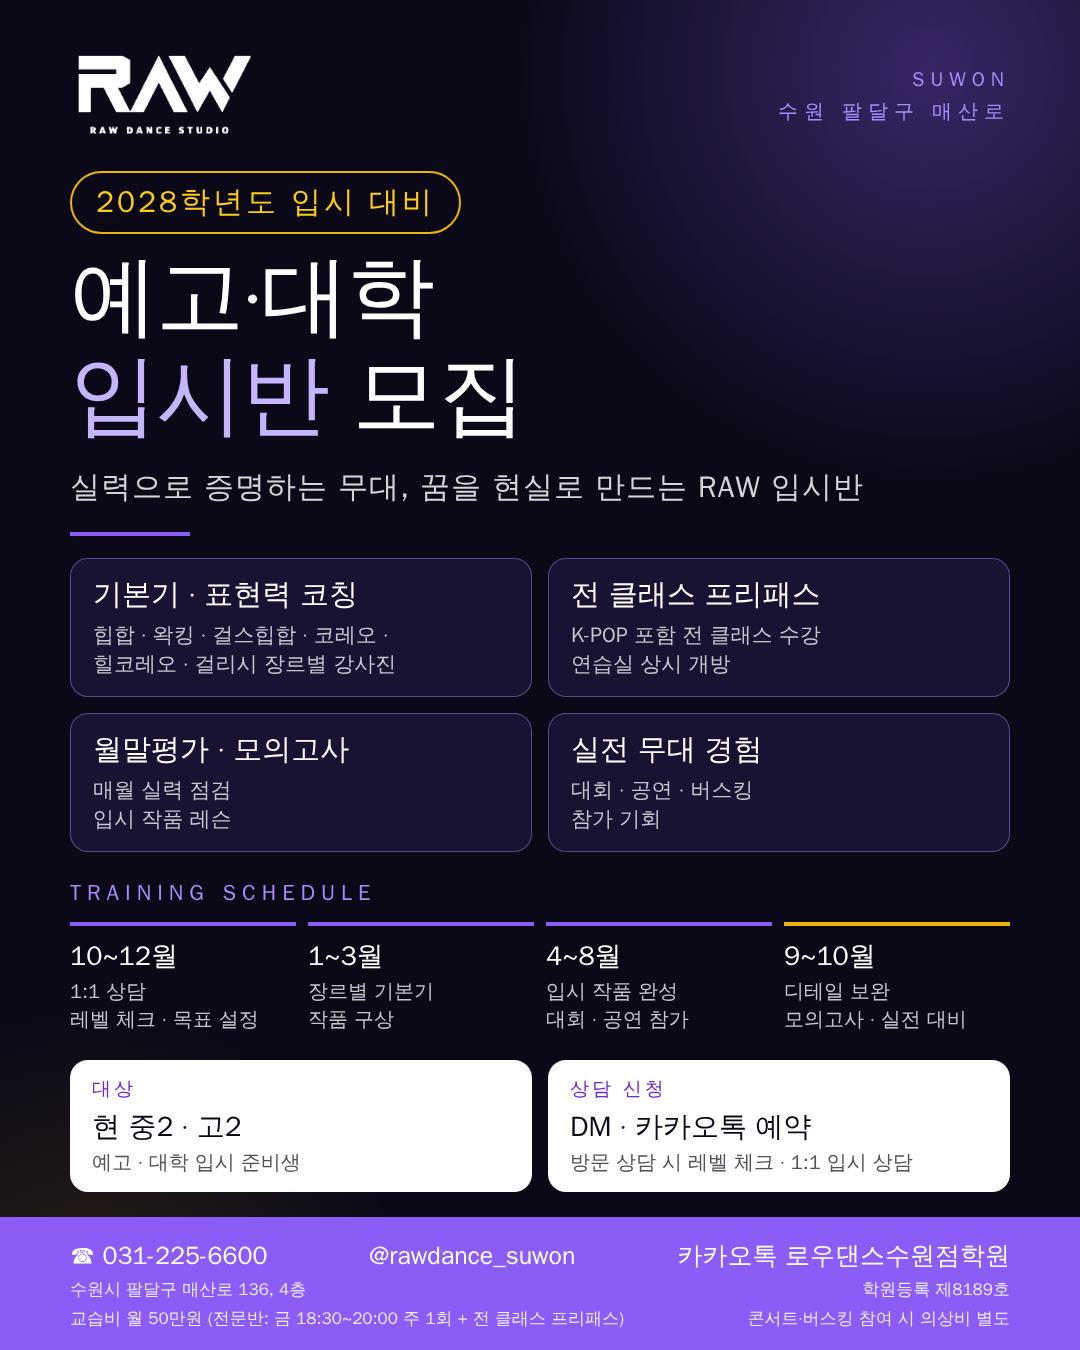
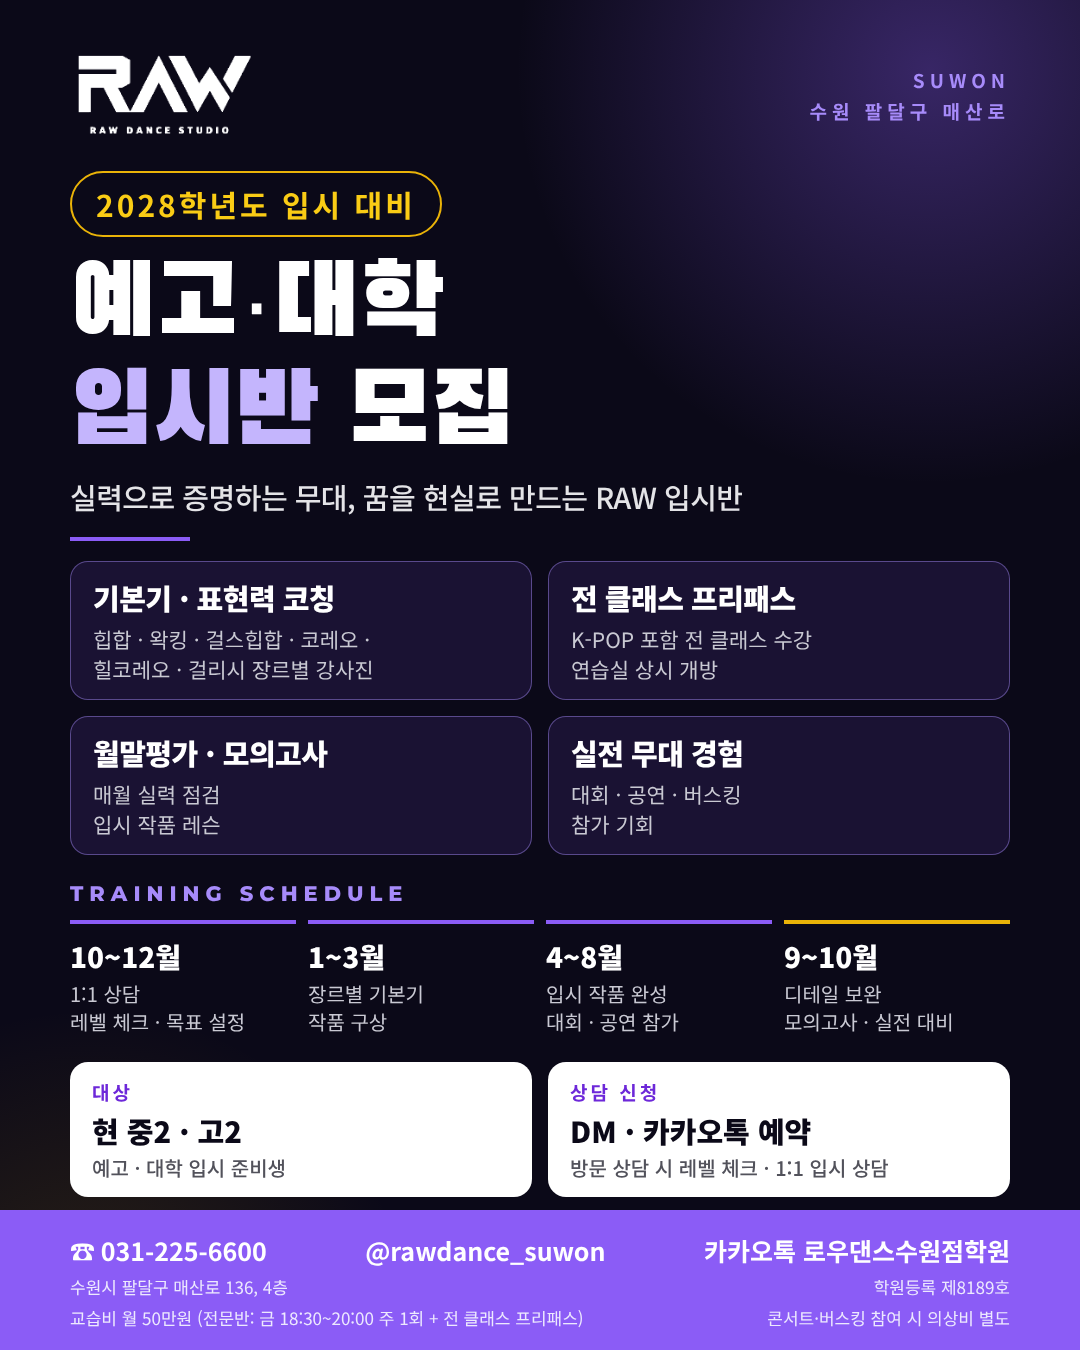
입시반 포스터 글꼴 교체 (Black Han Sans, Noto Sans KR)
Claude-Session: https://claude.ai/code/session_01CMPXWNa21Fqq6srPZpa27D

diff --git a/content/2026-10-13_ipsi-poster/poster.html b/content/2026-10-13_ipsi-poster/poster.html
@@ -1,36 +1,36 @@
-<!doctype html><html lang="ko"><head><meta charset="utf-8"><style>
+<!doctype html><html lang="ko"><head><meta charset="utf-8"><link href="https://fonts.googleapis.com/css2?family=Black+Han+Sans&family=Noto+Sans+KR:wght@400;500;700;900&family=Montserrat:wght@700;800&display=swap" rel="stylesheet"><style>
 *{box-sizing:border-box;margin:0;padding:0}
 html,body{width:1080px;height:1350px}
-body{font-family:"WenQuanYi Zen Hei",sans-serif;color:#fff;background:#0b0918;position:relative;overflow:hidden}
+body{font-family:"Noto Sans KR",sans-serif;font-weight:500;color:#fff;background:#0b0918;position:relative;overflow:hidden}
 .glow{position:absolute;width:900px;height:900px;border-radius:50%;background:radial-gradient(circle,rgba(139,92,246,.35),rgba(139,92,246,0) 65%);top:-380px;right:-300px}
 .glow2{position:absolute;width:700px;height:700px;border-radius:50%;background:radial-gradient(circle,rgba(234,179,8,.14),rgba(234,179,8,0) 65%);bottom:-330px;left:-260px}
 .wrap{position:relative;padding:48px 70px 0}
 .top{display:flex;justify-content:space-between;align-items:center}
 .top img{width:190px}
-.top .loc{font-size:20px;letter-spacing:6px;color:#a78bfa;text-align:right;line-height:1.6}
-.tag{display:inline-block;margin-top:28px;padding:9px 24px;border:2px solid #eab308;color:#facc15;border-radius:40px;font-size:30px;letter-spacing:3px}
-h1{margin-top:14px;font-size:88px;line-height:1.12;letter-spacing:-2px}
+.top .loc{font-size:19px;font-weight:700;letter-spacing:5px;color:#a78bfa;text-align:right;line-height:1.6}
+.tag{font-weight:700;display:inline-block;margin-top:28px;padding:9px 24px;border:2px solid #eab308;color:#facc15;border-radius:40px;font-size:30px;letter-spacing:3px}
+h1{margin-top:16px;font-family:"Black Han Sans",sans-serif;font-weight:400;font-size:100px;line-height:1.08;letter-spacing:0}
 h1 .p{color:#c4b5fd}
-.sub{margin-top:22px;font-size:30px;color:#d4d4d8;letter-spacing:1px}
-.bar{height:4px;width:120px;background:#8b5cf6;margin:24px 0 22px}
+.sub{margin-top:6px;font-size:29px;color:#e4e4e7;font-weight:500;letter-spacing:-0.5px}
+.bar{height:4px;width:120px;background:#8b5cf6;margin:20px 0 20px}
 .grid{display:grid;grid-template-columns:1fr 1fr;gap:16px}
-.card{background:rgba(139,92,246,.12);border:1.5px solid rgba(167,139,250,.45);border-radius:18px;padding:16px 22px}
-.card b{display:block;font-size:29px;margin-bottom:6px}
-.card span{font-size:21px;color:#c4c4cc;line-height:1.4}
-.h2{margin-top:26px;font-size:22px;letter-spacing:6px;color:#a78bfa}
+.card{background:rgba(139,92,246,.12);border:1.5px solid rgba(167,139,250,.45);border-radius:18px;padding:14px 22px}
+.card b{display:block;font-size:29px;font-weight:900;margin-bottom:6px;letter-spacing:-0.5px}
+.card span{font-size:21px;color:#c9c9d3;line-height:1.45;font-weight:400}
+.h2{margin-top:26px;font-family:Montserrat,sans-serif;font-weight:800;font-size:21px;letter-spacing:6px;color:#a78bfa}
 .tl{display:grid;grid-template-columns:repeat(4,1fr);gap:12px;margin-top:14px}
 .st{border-top:4px solid #8b5cf6;padding-top:12px}
 .st:last-child{border-color:#eab308}
-.st b{font-size:27px;display:block}
-.st span{font-size:20px;color:#c4c4cc;line-height:1.4;display:block;margin-top:4px}
+.st b{font-size:28px;font-weight:900;display:block}
+.st span{font-size:20px;font-weight:400;color:#c9c9d3;line-height:1.4;display:block;margin-top:4px}
 .info{margin-top:26px;display:flex;gap:16px}
 .info div{flex:1;background:#fff;color:#0b0918;border-radius:18px;padding:16px 22px}
-.info small{font-size:19px;color:#6d28d9;letter-spacing:3px}
-.info p{font-size:28px;margin-top:6px;line-height:1.35}
-.info p em{font-style:normal;font-size:20px;color:#52525b;display:block;margin-top:4px}
+.info small{font-size:19px;font-weight:700;color:#6d28d9;letter-spacing:3px}
+.info p{font-size:29px;font-weight:900;margin-top:6px;line-height:1.35}
+.info p em{font-style:normal;font-weight:500;font-size:20px;color:#52525b;display:block;margin-top:4px}
 .foot{position:absolute;left:0;right:0;bottom:0;background:#8b5cf6;padding:22px 70px 20px}
-.foot .c{display:flex;justify-content:space-between;font-size:25px}
-.foot .l{margin-top:6px;font-size:17px;color:#ede9fe;display:flex;justify-content:space-between}
+.foot .c{display:flex;justify-content:space-between;font-size:25px;font-weight:700}
+.foot .l{margin-top:6px;font-size:17px;font-weight:400;color:#ede9fe;display:flex;justify-content:space-between}
 </style></head><body>
 <div class="glow"></div><div class="glow2"></div>
 <div class="wrap">

diff --git a/content/2026-10-13_ipsi-poster/make_poster.py b/content/2026-10-13_ipsi-poster/make_poster.py
@@ -1,0 +1,68 @@
+import sys
+year=sys.argv[1]; out=sys.argv[2]
+html=f'''<!doctype html><html lang="ko"><head><meta charset="utf-8"><link href="https://fonts.googleapis.com/css2?family=Black+Han+Sans&family=Noto+Sans+KR:wght@400;500;700;900&family=Montserrat:wght@700;800&display=swap" rel="stylesheet"><style>
+*{{box-sizing:border-box;margin:0;padding:0}}
+html,body{{width:1080px;height:1350px}}
+body{{font-family:"Noto Sans KR",sans-serif;font-weight:500;color:#fff;background:#0b0918;position:relative;overflow:hidden}}
+.glow{{position:absolute;width:900px;height:900px;border-radius:50%;background:radial-gradient(circle,rgba(139,92,246,.35),rgba(139,92,246,0) 65%);top:-380px;right:-300px}}
+.glow2{{position:absolute;width:700px;height:700px;border-radius:50%;background:radial-gradient(circle,rgba(234,179,8,.14),rgba(234,179,8,0) 65%);bottom:-330px;left:-260px}}
+.wrap{{position:relative;padding:48px 70px 0}}
+.top{{display:flex;justify-content:space-between;align-items:center}}
+.top img{{width:190px}}
+.top .loc{{font-size:19px;font-weight:700;letter-spacing:5px;color:#a78bfa;text-align:right;line-height:1.6}}
+.tag{{font-weight:700;display:inline-block;margin-top:28px;padding:9px 24px;border:2px solid #eab308;color:#facc15;border-radius:40px;font-size:30px;letter-spacing:3px}}
+h1{{margin-top:16px;font-family:"Black Han Sans",sans-serif;font-weight:400;font-size:100px;line-height:1.08;letter-spacing:0}}
+h1 .p{{color:#c4b5fd}}
+.sub{{margin-top:6px;font-size:29px;color:#e4e4e7;font-weight:500;letter-spacing:-0.5px}}
+.bar{{height:4px;width:120px;background:#8b5cf6;margin:20px 0 20px}}
+.grid{{display:grid;grid-template-columns:1fr 1fr;gap:16px}}
+.card{{background:rgba(139,92,246,.12);border:1.5px solid rgba(167,139,250,.45);border-radius:18px;padding:14px 22px}}
+.card b{{display:block;font-size:29px;font-weight:900;margin-bottom:6px;letter-spacing:-0.5px}}
+.card span{{font-size:21px;color:#c9c9d3;line-height:1.45;font-weight:400}}
+.h2{{margin-top:26px;font-family:Montserrat,sans-serif;font-weight:800;font-size:21px;letter-spacing:6px;color:#a78bfa}}
+.tl{{display:grid;grid-template-columns:repeat(4,1fr);gap:12px;margin-top:14px}}
+.st{{border-top:4px solid #8b5cf6;padding-top:12px}}
+.st:last-child{{border-color:#eab308}}
+.st b{{font-size:28px;font-weight:900;display:block}}
+.st span{{font-size:20px;font-weight:400;color:#c9c9d3;line-height:1.4;display:block;margin-top:4px}}
+.info{{margin-top:26px;display:flex;gap:16px}}
+.info div{{flex:1;background:#fff;color:#0b0918;border-radius:18px;padding:16px 22px}}
+.info small{{font-size:19px;font-weight:700;color:#6d28d9;letter-spacing:3px}}
+.info p{{font-size:29px;font-weight:900;margin-top:6px;line-height:1.35}}
+.info p em{{font-style:normal;font-weight:500;font-size:20px;color:#52525b;display:block;margin-top:4px}}
+.foot{{position:absolute;left:0;right:0;bottom:0;background:#8b5cf6;padding:22px 70px 20px}}
+.foot .c{{display:flex;justify-content:space-between;font-size:25px;font-weight:700}}
+.foot .l{{margin-top:6px;font-size:17px;font-weight:400;color:#ede9fe;display:flex;justify-content:space-between}}
+</style></head><body>
+<div class="glow"></div><div class="glow2"></div>
+<div class="wrap">
+ <div class="top"><img src="raw-logo.png"><div class="loc">SUWON<br>수원 팔달구 매산로</div></div>
+ <div class="tag">{year}학년도 입시 대비</div>
+ <h1>예고·대학<br><span class="p">입시반</span> 모집</h1>
+ <div class="sub">실력으로 증명하는 무대, 꿈을 현실로 만드는 RAW 입시반</div>
+ <div class="bar"></div>
+ <div class="grid">
+  <div class="card"><b>기본기 · 표현력 코칭</b><span>힙합 · 왁킹 · 걸스힙합 · 코레오 ·<br>힐코레오 · 걸리시 장르별 강사진</span></div>
+  <div class="card"><b>전 클래스 프리패스</b><span>K-POP 포함 전 클래스 수강<br>연습실 상시 개방</span></div>
+  <div class="card"><b>월말평가 · 모의고사</b><span>매월 실력 점검<br>입시 작품 레슨</span></div>
+  <div class="card"><b>실전 무대 경험</b><span>대회 · 공연 · 버스킹<br>참가 기회</span></div>
+ </div>
+ <div class="h2">TRAINING SCHEDULE</div>
+ <div class="tl">
+  <div class="st"><b>10~12월</b><span>1:1 상담<br>레벨 체크 · 목표 설정</span></div>
+  <div class="st"><b>1~3월</b><span>장르별 기본기<br>작품 구상</span></div>
+  <div class="st"><b>4~8월</b><span>입시 작품 완성<br>대회 · 공연 참가</span></div>
+  <div class="st"><b>9~10월</b><span>디테일 보완<br>모의고사 · 실전 대비</span></div>
+ </div>
+ <div class="info">
+  <div><small>대상</small><p>현 중2 · 고2<em>예고 · 대학 입시 준비생</em></p></div>
+  <div><small>상담 신청</small><p>DM · 카카오톡 예약<em>방문 상담 시 레벨 체크 · 1:1 입시 상담</em></p></div>
+ </div>
+</div>
+<div class="foot">
+ <div class="c"><span>☎ 031-225-6600</span><span>@rawdance_suwon</span><span>카카오톡 로우댄스수원점학원</span></div>
+ <div class="l"><span>수원시 팔달구 매산로 136, 4층</span><span>학원등록 제8189호</span></div>
+ <div class="l"><span>교습비 월 50만원 (전문반: 금 18:30~20:00 주 1회 + 전 클래스 프리패스)</span><span>콘서트·버스킹 참여 시 의상비 별도</span></div>
+</div>
+</body></html>'''
+open(out,'w',encoding='utf-8').write(html)

diff --git a/content/2026-10-13_ipsi-poster/instagram.md b/content/2026-10-13_ipsi-poster/instagram.md
@@ -1,7 +1,8 @@
 # 인스타 피드: 입시반 모집 포스터 (2026-10-13)
 
 - 포스터: `poster.png` (1080×1350, 인스타 피드 4:5)
-- 원본 HTML: `poster.html` (문구 수정 후 다시 만들 수 있음)
+- 원본 HTML: `poster.html` (문구 수정 후 다시 만들 수 있음) · 생성 스크립트 `make_poster.py` (python3 make_poster.py 2028 poster.html)
+- 글꼴: 제목 Black Han Sans, 본문 Noto Sans KR, 영문 Montserrat (모두 Google Fonts 무료 글꼴, 상업적 이용 가능)
 - 원장님 캡션 초안을 바탕으로 수정. 바꾼 이유는 맨 아래 "수정 내역".
 
 ## 캡션
